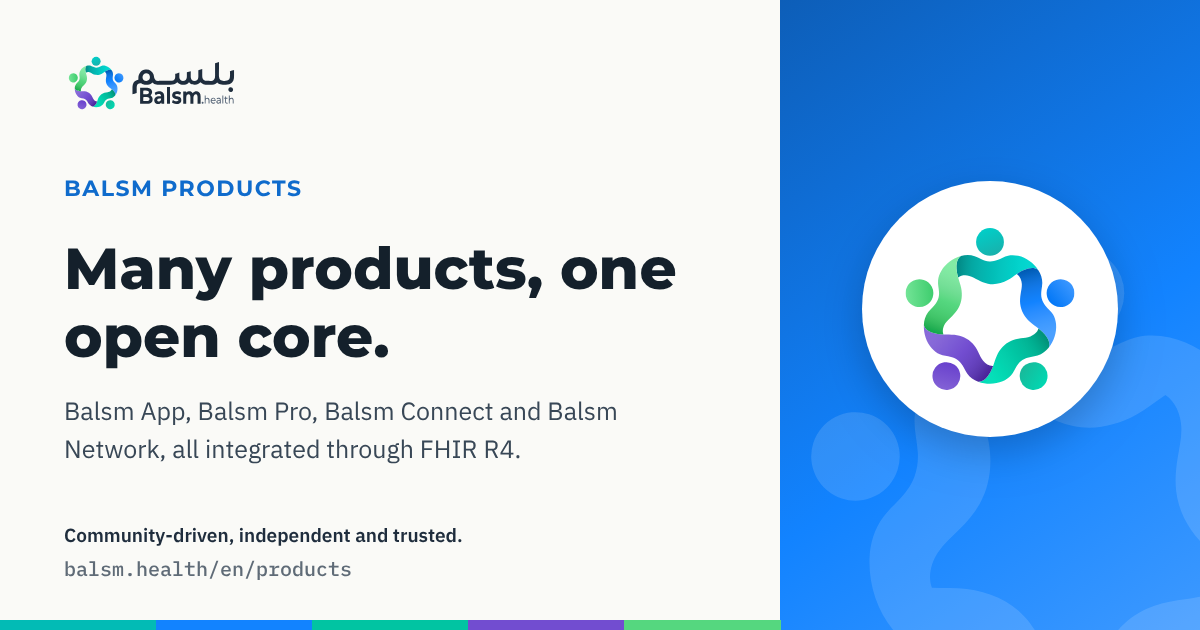
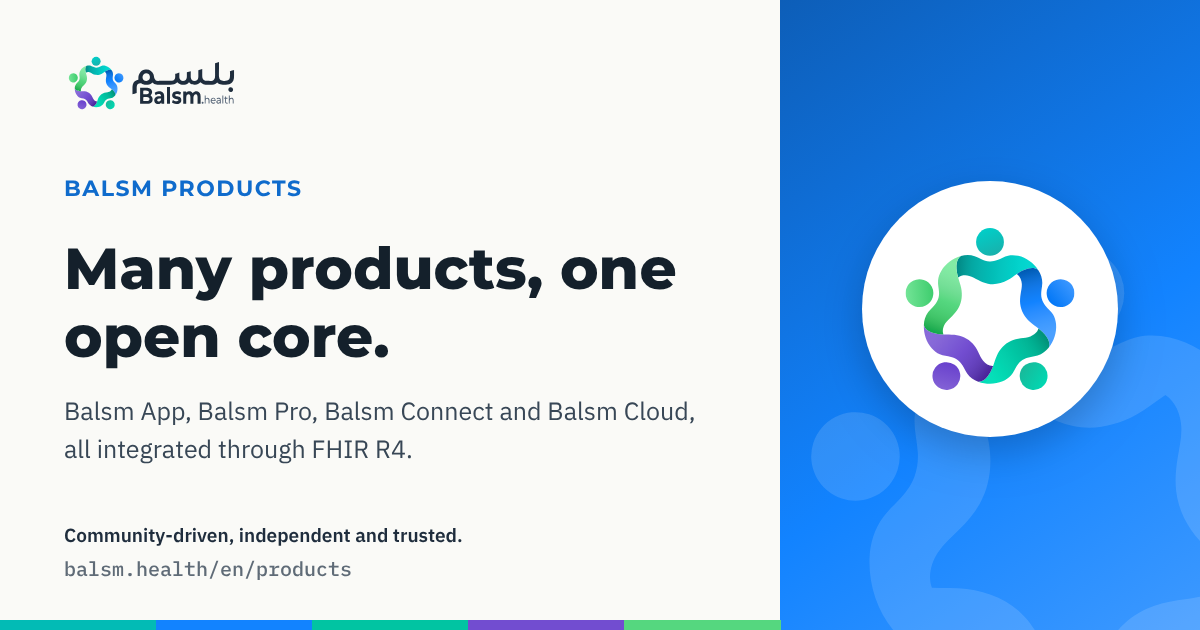
Call it Balsm Cloud (سحابة بلسم), not Balsm Network
The optional hosted layer is Balsm Cloud. Renames it everywhere on the
site — footer, Products (stack tile, section, meta and link preview),
Providers' pricing card, Ecosystem's licensing card, the Partners
programme list, llms.txt — and its anchor: /products#cloud, which /cloud
now redirects to. Products link preview re-rendered (rev bump).

Claude-Session: https://claude.ai/code/session_01L44assg5bgYuBUEEhbEpY8

Changed region(s): [[0.0308, 0.6937, 0.4317, 0.754], [0.5242, 0.6333, 0.5858, 0.6635]]

diff --git a/src/components/cloud/ProductsSections.tsx b/src/components/cloud/ProductsSections.tsx
@@ -79,7 +79,7 @@ export default function ProductsSections() {
                 </a>
               ))}
             </div>
-            <a href="#network" style={{ display: 'flex', flexWrap: 'wrap', alignItems: 'center', justifyContent: 'space-between', gap: '8px 16px', borderRadius: 16, padding: '16px 18px', background: C.violetBg, border: `1px solid ${VIOLET_EDGE}` }}>
+            <a href="#cloud" style={{ display: 'flex', flexWrap: 'wrap', alignItems: 'center', justifyContent: 'space-between', gap: '8px 16px', borderRadius: 16, padding: '16px 18px', background: C.violetBg, border: `1px solid ${VIOLET_EDGE}` }}>
               <span style={tileName}>{t('stack.network.name')}</span>
               <span style={{ fontSize: 13.5, color: C.ink2 }}>{t('stack.network.desc')}</span>
             </a>
@@ -181,7 +181,7 @@ export default function ProductsSections() {
               </div>
             </Reveal>
           </div>
-          <div id="network" style={{ scrollMarginTop: 80 }}>
+          <div id="cloud" style={{ scrollMarginTop: 80 }}>
             <Reveal style={{ height: '100%', boxSizing: 'border-box', borderRadius: 24, padding: 'clamp(28px,4vw,40px)', background: `linear-gradient(160deg,${C.violetBg},#fff 75%)`, border: `1px solid ${VIOLET_EDGE}` }}>
               <span style={badge(C.white, C.violetDark, VIOLET_EDGE)}>{t('network.badge')}</span>
               <div style={{ width: 52, height: 52, borderRadius: 15, background: C.violet, display: 'flex', alignItems: 'center', justifyContent: 'center', color: ON.violet, margin: '20px 0 18px' }}>

diff --git a/src/components/cloud/ProvidersSections.tsx b/src/components/cloud/ProvidersSections.tsx
@@ -192,7 +192,7 @@ export default function ProvidersSections() {
                   <div key={f} style={{ display: 'flex', gap: 9, alignItems: 'center' }}><Check style={{ width: 18, height: 18, color: C.blue }} />{f}</div>
                 ))}
               </div>
-              <Link href="/products#network" style={{ display: 'block', textAlign: 'center', marginTop: 24, padding: 13, borderRadius: 999, background: FILL.blue, color: '#fff', fontFamily: FONT.cairo, fontWeight: 700, boxShadow: '0 10px 24px rgba(18,131,255,.24)' }}>{t('pricing.cloud.cta')}</Link>
+              <Link href="/products#cloud" style={{ display: 'block', textAlign: 'center', marginTop: 24, padding: 13, borderRadius: 999, background: FILL.blue, color: '#fff', fontFamily: FONT.cairo, fontWeight: 700, boxShadow: '0 10px 24px rgba(18,131,255,.24)' }}>{t('pricing.cloud.cta')}</Link>
             </Reveal>
           </div>
         </div>

diff --git a/src/app/[locale]/cloud/page.tsx b/src/app/[locale]/cloud/page.tsx
@@ -1,12 +1,12 @@
 import { permanentRedirect } from 'next/navigation';
 import { defaultLocale } from '@/i18n/request';
 
-// Balsm Cloud no longer has its own page: the optional hosted layer is Balsm
-// Network, a section of /products. Keep the old path working.
+// Balsm Cloud no longer has its own page: it is a section of /products.
+// Keep the old path working.
 type Props = { params: Promise<{ locale: string }> };
 
 export default async function CloudRedirect({ params }: Props) {
   const { locale } = await params;
   // Arabic is unprefixed; every other locale keeps its prefix.
-  permanentRedirect(locale === defaultLocale ? '/products#network' : `/${locale}/products#network`);
+  permanentRedirect(locale === defaultLocale ? '/products#cloud' : `/${locale}/products#cloud`);
 }

diff --git a/src/components/cloud/EcosystemSections.tsx b/src/components/cloud/EcosystemSections.tsx
@@ -152,7 +152,7 @@ export default function EcosystemSections() {
                 <span dir="ltr" style={{ fontFamily: FONT.mono, fontWeight: 600, fontSize: 13, padding: '4px 10px', borderRadius: 999, background: C.violetBg, color: C.violetDark }}>BCL</span>
               </div>
               <p style={{ fontSize: 15.5, lineHeight: 1.75, color: C.ink2, margin: '0 0 14px' }}>{t('licensing.cloud.desc')}</p>
-              <Link href="/products#network" style={textLink(C.violetDark)}>
+              <Link href="/products#cloud" style={textLink(C.violetDark)}>
                 {t('licensing.cloud.cta')}<ArrowLeft style={{ width: 16, height: 16, ...flip }} />
               </Link>
             </Reveal>

diff --git a/src/components/cloud/BalsmFooter.tsx b/src/components/cloud/BalsmFooter.tsx
@@ -121,7 +121,7 @@ export default function BalsmFooter() {
             <div style={colWrap}>
               <Link href="/download" style={linkStyle}>{t('products.app')}</Link>
               <Link href="/products#pro" style={linkStyle}>{t('products.pro')}</Link>
-              <Link href="/products#network" style={linkStyle}>{t('products.network')}</Link>
+              <Link href="/products#cloud" style={linkStyle}>{t('products.network')}</Link>
               <Link href="/providers" style={linkStyle}>{t('products.providers')}</Link>
             </div>
           </div>
